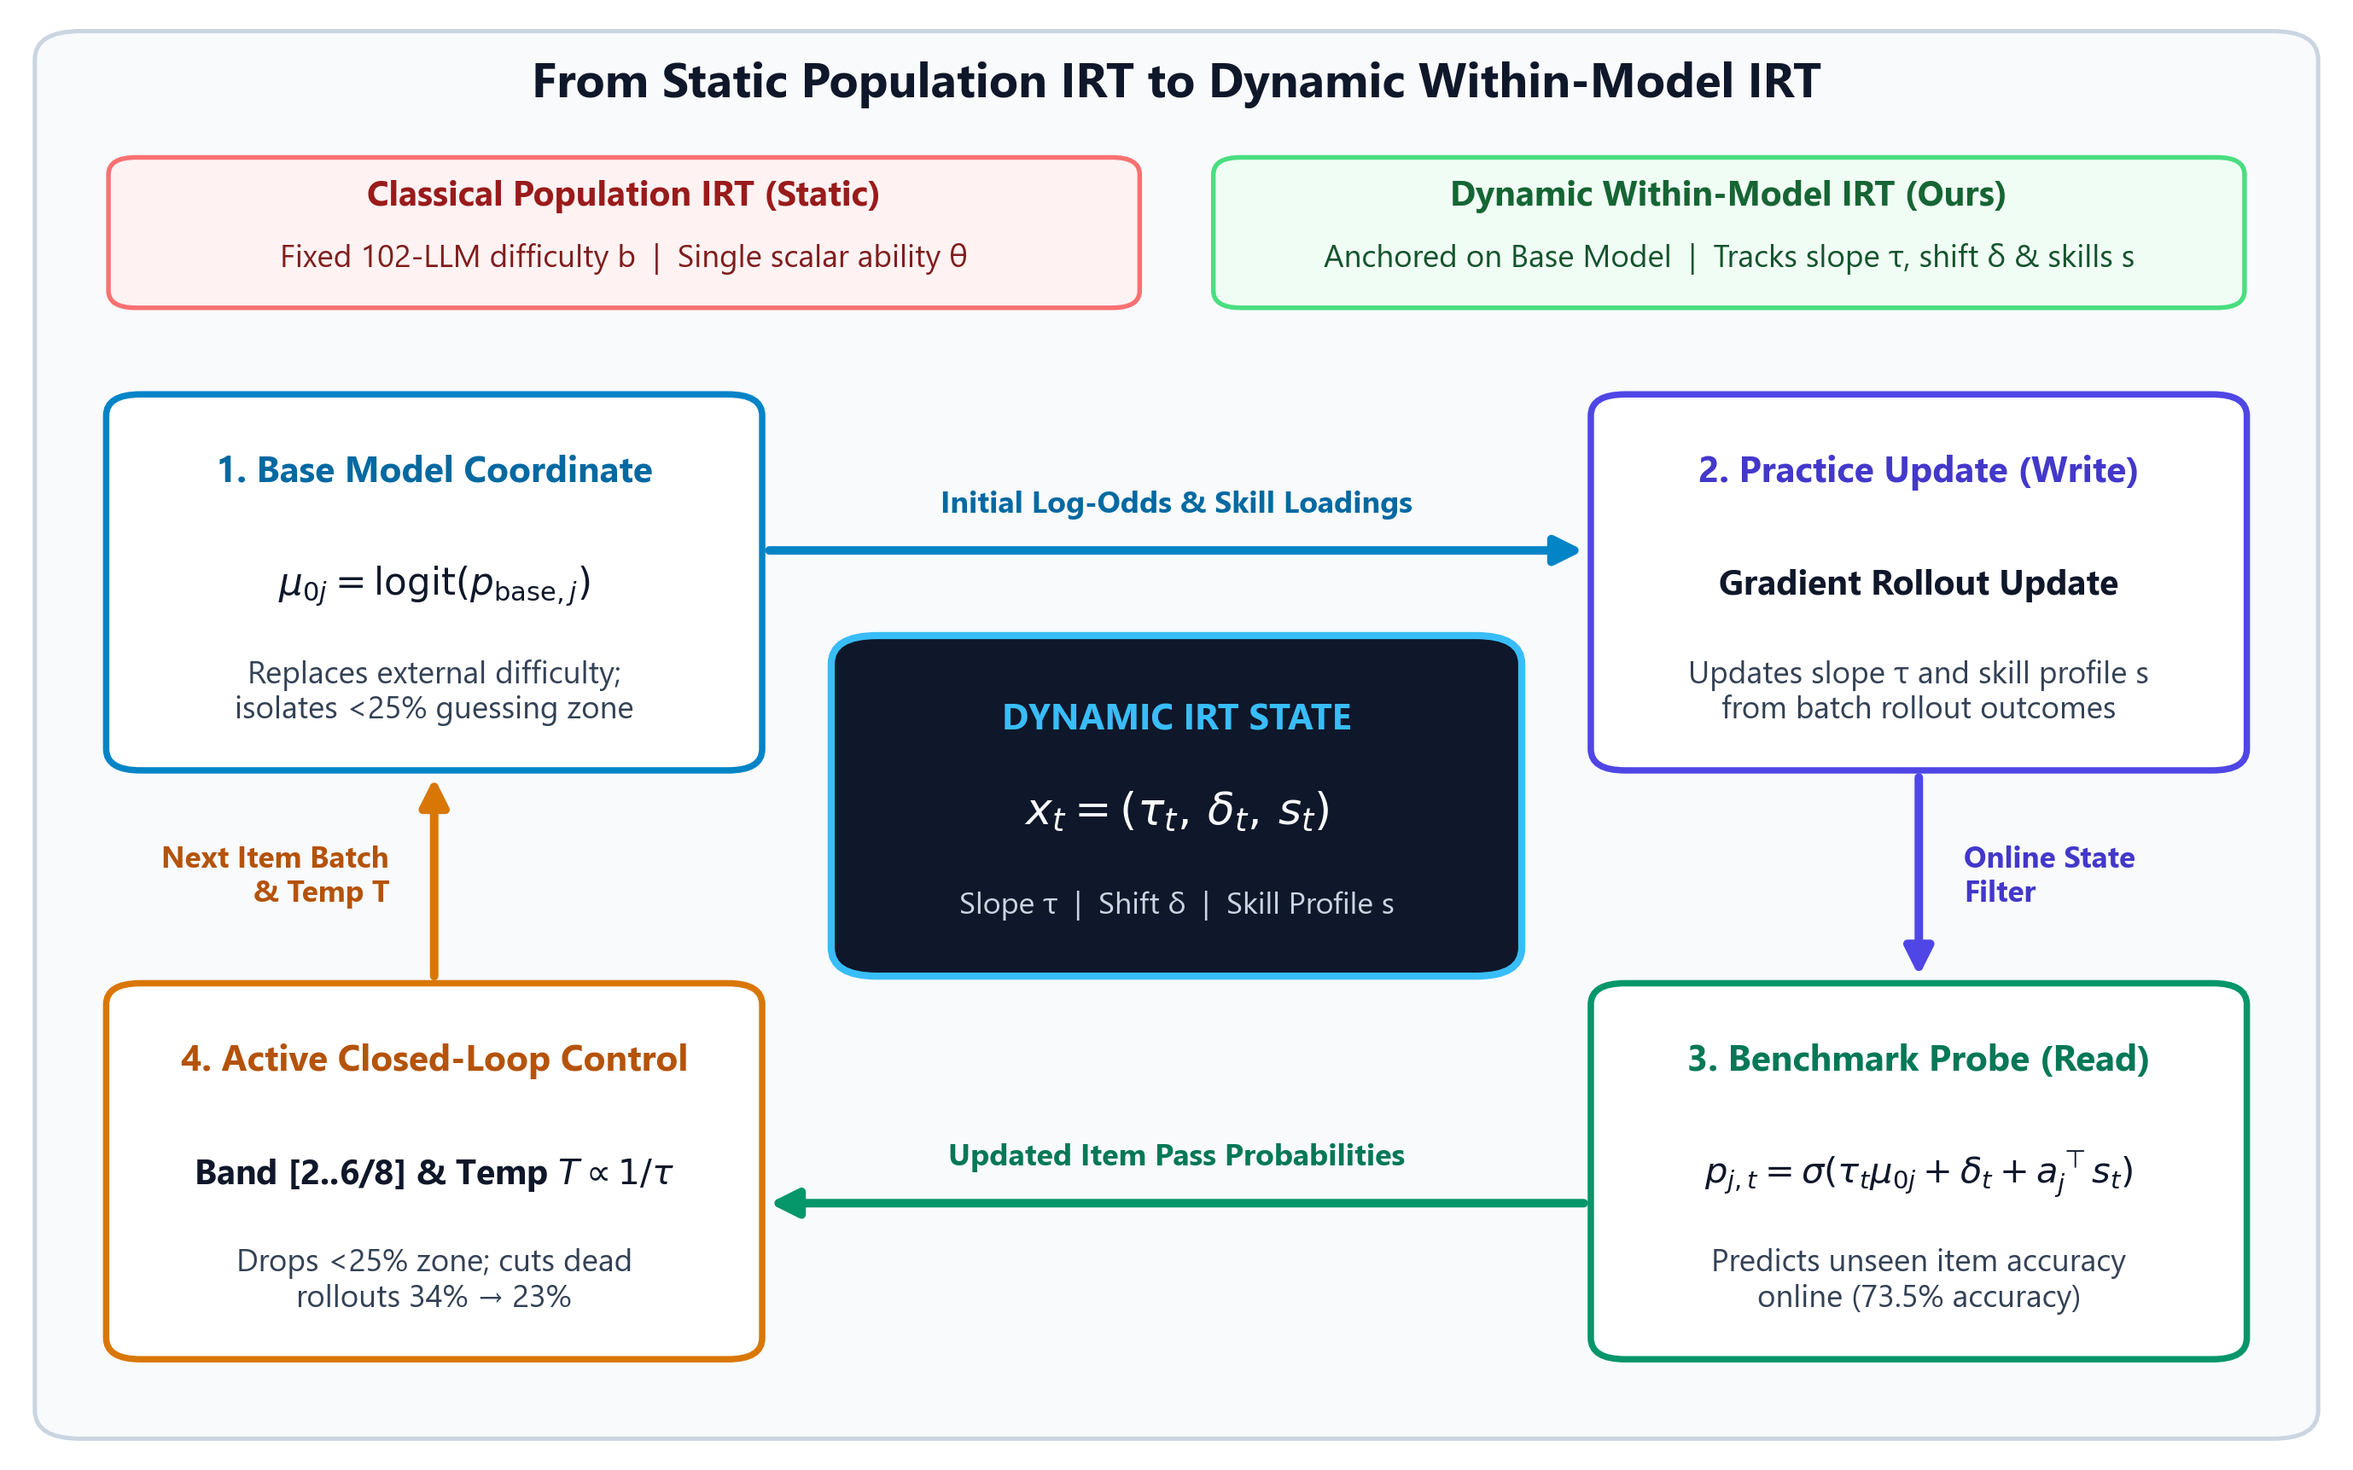
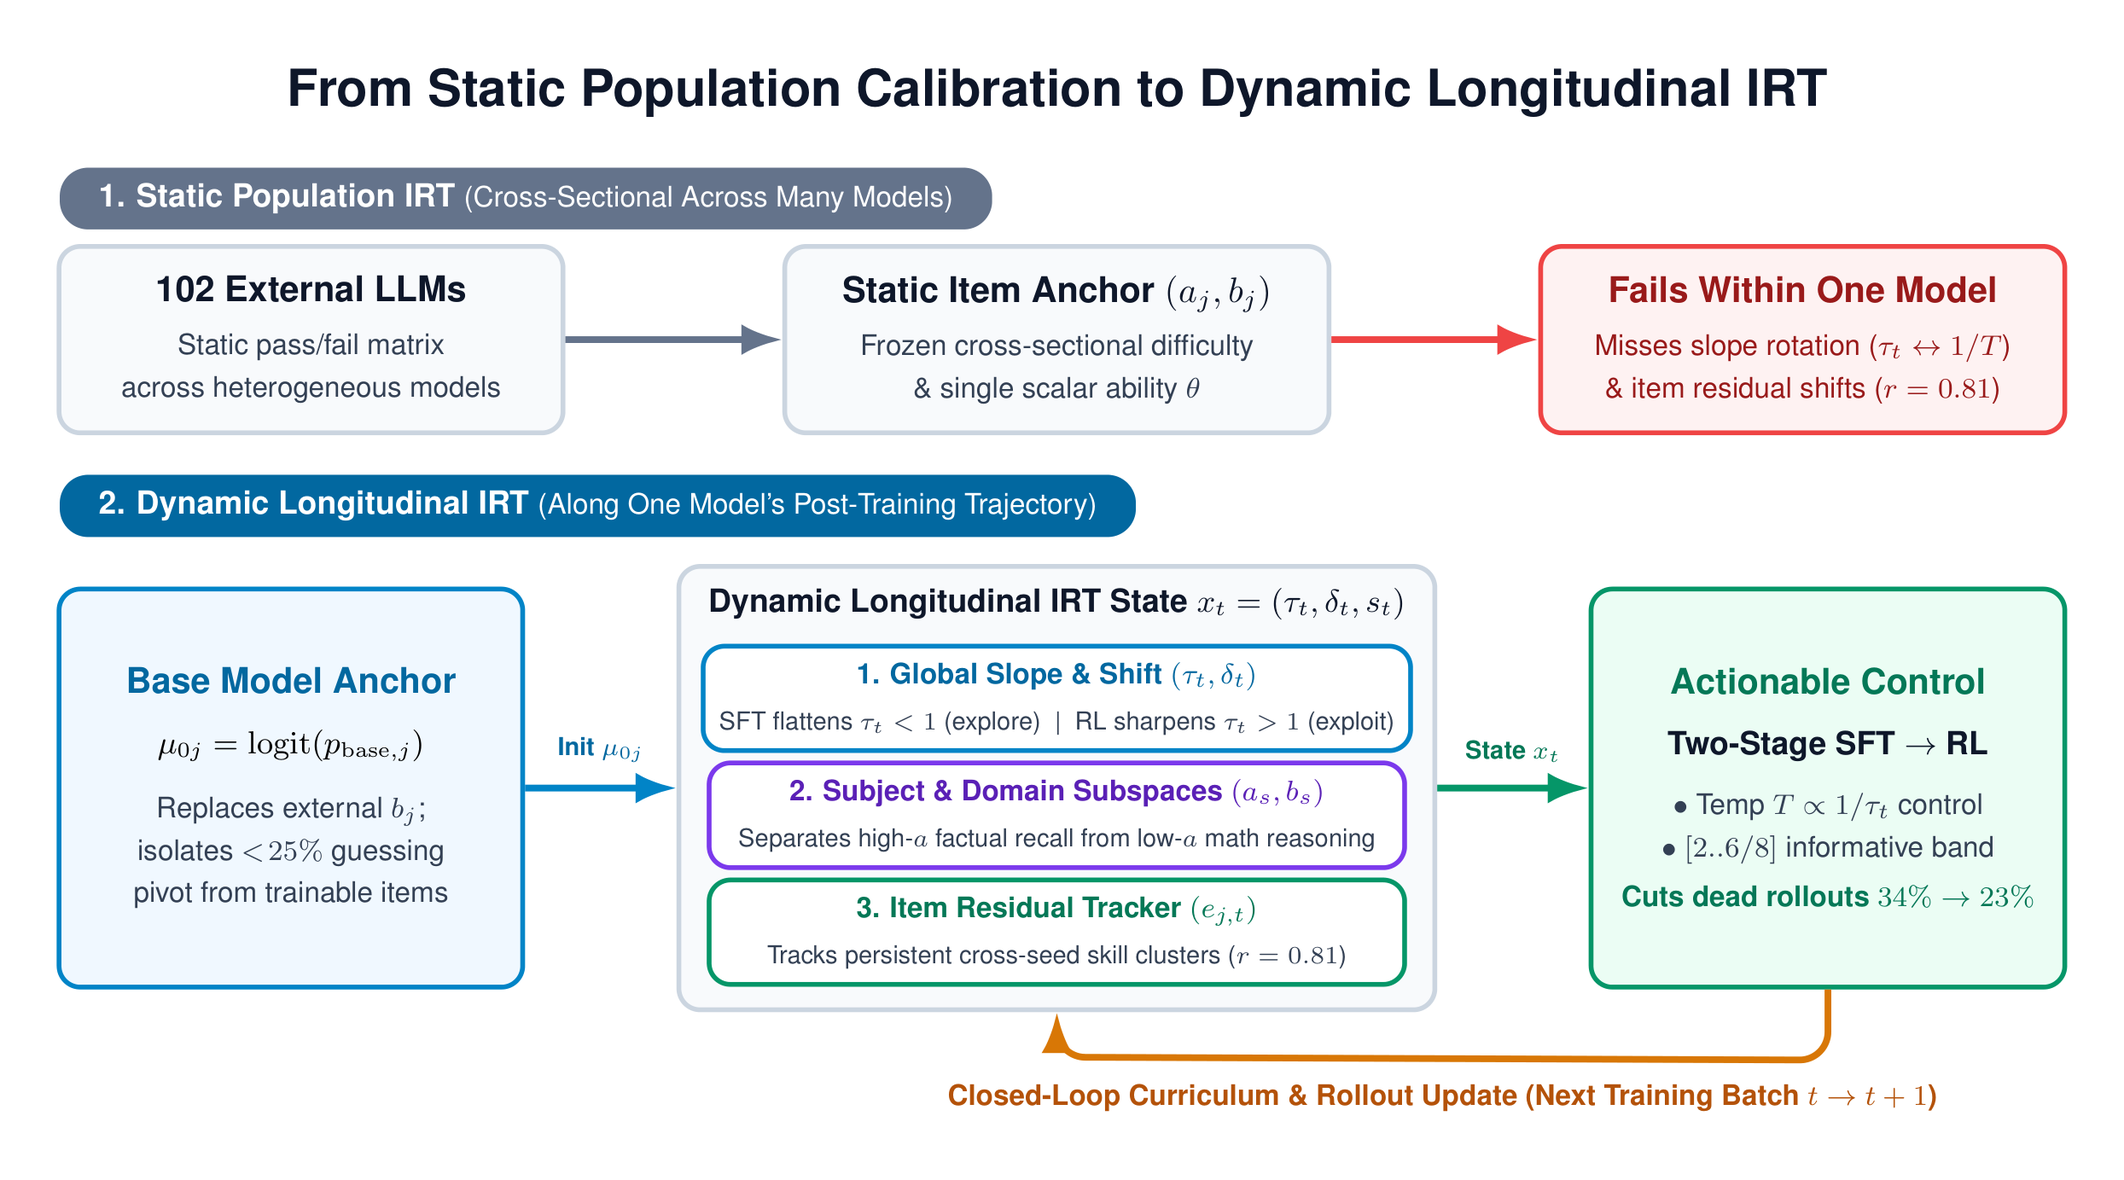
Add Base->CoT-SFT trajectory arrow in Fig06 and replace Fig07 with compiled LaTeX TikZ + Nano Banana diagrams

Changed region(s): [[0.0, 0.0311, 0.99, 0.9949]]

diff --git a/gemini/make_oct26_v4_figures.py b/gemini/make_oct26_v4_figures.py
@@ -649,7 +649,7 @@ def make_v4_fig06_actionable_control_payoff():
     base_x = m1_p.loc["t9_base", "mean_at_16"]
     base_y = m1_p.loc["t9_base", "pass_at_16"]
     ax1.scatter([base_x], [base_y], s=130, color="#475569", marker="o", edgecolors="#0F172A", linewidth=1.6, zorder=6, label="Base Model (38.2%, 93.0%)")
-    ax1.text(base_x - 0.3, base_y + 1.3, "Base (38.2%, 93.0%)", fontsize=8.6, fontweight="bold", color="#334155")
+    ax1.text(base_x - 0.2, base_y + 1.6, "Base (38.2%, 93.0%)", ha="left", fontsize=8.6, fontweight="bold", color="#334155")
 
     # 2. Standalone RL (u333)
     grpo_states = ["q1_grpo_0", "q1_grpo_1", "q1_grpo_2"]
@@ -673,13 +673,20 @@ def make_v4_fig06_actionable_control_payoff():
     )
     ax1.add_patch(arrow_grpo)
 
-    # 3. CoT-SFT Base
+    # 3. CoT-SFT Base (Stage 1 from Base)
     sft_states = ["t9_sft_0_70", "t9_sft_1_70", "t9_sft_2_70"]
     sft_xs = m1_p.loc[sft_states, "mean_at_16"].to_numpy()
     sft_ys = m1_p.loc[sft_states, "pass_at_16"].to_numpy()
     sft_cx, sft_cy = np.mean(sft_xs), np.mean(sft_ys)
     ax1.scatter([sft_cx], [sft_cy], s=130, color="#0284C7", marker="o", edgecolors="#0369A1", linewidth=1.6, zorder=6, label="CoT-SFT (T=0.7) (43.9%, 96.6%)")
-    ax1.text(sft_cx - 0.3, sft_cy + 1.3, "CoT-SFT (43.9%, 96.6%)", ha="right", fontsize=8.6, fontweight="bold", color="#0369A1")
+    ax1.text(sft_cx - 0.35, sft_cy + 1.5, "CoT-SFT (43.9%, 96.6%)", ha="right", fontsize=8.6, fontweight="bold", color="#0369A1")
+
+    arrow_base_sft = FancyArrowPatch(
+        (base_x, base_y), (sft_cx, sft_cy),
+        connectionstyle="arc3,rad=0.06", color="#0284C7",
+        arrowstyle="-|>", mutation_scale=17, linewidth=2.4, zorder=5
+    )
+    ax1.add_patch(arrow_base_sft)
 
     # 4. Zero-Training SFT T=0.2
     t02_states = ["m1a_sft_t02_0", "m1a_sft_t02_1", "m1a_sft_t02_2"]
@@ -798,81 +805,34 @@ def make_v4_fig06_actionable_control_payoff():
 
 
 # ==============================================================================
-# FIGURE 7: Standalone 1x1 — Minimalist Closed-Loop Dynamic IRT Schematic
+# FIGURE 7: Standalone 1x1 — Compiled LaTeX TikZ Closed-Loop Dynamic IRT Diagram
 # ==============================================================================
 def make_v4_fig07_dynamic_irt_schematic():
-    fig, ax = plt.subplots(figsize=(11.6, 7.2))
-    ax.axis("off")
-    ax.set_xlim(0, 100)
-    ax.set_ylim(0, 100)
+    import subprocess
+    import fitz
 
-    canvas = FancyBboxPatch((1.0, 1.0), 98.0, 98.0, boxstyle="round,pad=0.6,rounding_size=2.0", facecolor="#F8FAFC", edgecolor="#CBD5E1", linewidth=1.2, zorder=1)
-    ax.add_patch(canvas)
+    tex_path = os.path.join(OUT_DIR, "v4_Fig07_dynamic_irt_tikz.tex")
+    pdf_path = os.path.join(OUT_DIR, "v4_Fig07_dynamic_irt_tikz.pdf")
+    pdflatex_bin = r"C:\Users\steph\AppData\Local\Programs\MiKTeX\miktex\bin\x64\pdflatex.exe"
 
-    # Title with generous clearance above top banners
-    ax.text(50.0, 95.8, "From Static Population IRT to Dynamic Within-Model IRT", ha="center", va="center", fontsize=13.5, fontweight="bold", color="#0F172A", zorder=3)
+    if os.path.exists(tex_path) and os.path.exists(pdflatex_bin):
+        subprocess.run(
+            [pdflatex_bin, "-interaction=nonstopmode", "v4_Fig07_dynamic_irt_tikz.tex"],
+            cwd=OUT_DIR,
+            stdout=subprocess.DEVNULL,
+            stderr=subprocess.DEVNULL,
+            check=True,
+        )
+        doc = fitz.open(pdf_path)
+        pix = doc[0].get_pixmap(dpi=300)
+        for fname in ["v4_Fig07_dynamic_irt_tikz.png", "v4_Fig07_dynamic_irt_schematic.png"]:
+            out_file = os.path.join(OUT_DIR, fname)
+            pix.save(out_file)
+            if os.path.exists(BRAIN_DIR):
+                shutil.copy2(out_file, os.path.join(BRAIN_DIR, fname))
+        doc.close()
+        print("[OK] Compiled LaTeX TikZ: v4_Fig07_dynamic_irt_tikz.png & v4_Fig07_dynamic_irt_schematic.png")
 
-    # Top Comparative Banners (y = 80.5 to 90.5)
-    card_static = FancyBboxPatch((4.0, 80.5), 44.0, 9.8, boxstyle="round,pad=0.4,rounding_size=1.2", facecolor="#FEF2F2", edgecolor="#F87171", linewidth=1.3, zorder=2)
-    ax.add_patch(card_static)
-    ax.text(26.0, 87.3, "Classical Population IRT (Static)", ha="center", fontsize=9.8, fontweight="bold", color="#991B1B", zorder=3)
-    ax.text(26.0, 83.0, "Fixed 102-LLM difficulty b  |  Single scalar ability θ", ha="center", fontsize=8.8, color="#7F1D1D", zorder=3)
-
-    card_dynamic = FancyBboxPatch((52.0, 80.5), 44.0, 9.8, boxstyle="round,pad=0.4,rounding_size=1.2", facecolor="#F0FDF4", edgecolor="#4ADE80", linewidth=1.3, zorder=2)
-    ax.add_patch(card_dynamic)
-    ax.text(74.0, 87.3, "Dynamic Within-Model IRT (Ours)", ha="center", fontsize=9.8, fontweight="bold", color="#166534", zorder=3)
-    ax.text(74.0, 83.0, "Anchored on Base Model  |  Tracks slope τ, shift δ & skills s", ha="center", fontsize=8.8, color="#14532D", zorder=3)
-
-    # Central State Hub
-    hub = FancyBboxPatch((35.5, 33.5), 29.0, 23.0, boxstyle="round,pad=0.5,rounding_size=2.0", facecolor="#0F172A", edgecolor="#38BDF8", linewidth=2.0, zorder=5)
-    ax.add_patch(hub)
-    ax.text(50.0, 51.0, "DYNAMIC IRT STATE", ha="center", va="center", fontsize=10.2, fontweight="bold", color="#38BDF8", zorder=6)
-    ax.text(50.0, 44.5, r"$x_t = (\tau_t, \, \delta_t, \, s_t)$", ha="center", va="center", fontsize=12.5, fontweight="bold", color="#F8FAFC", zorder=6)
-    ax.text(50.0, 38.0, "Slope τ  |  Shift δ  |  Skill Profile s", ha="center", va="center", fontsize=8.6, color="#CBD5E1", zorder=6)
-
-    # 4 Minimalist Outer Nodes (Big, Readable Slide Text — Max 2 Short Lines Each)
-    # 1. Top-Left
-    n1 = FancyBboxPatch((4.0, 48.0), 27.5, 25.5, boxstyle="round,pad=0.5,rounding_size=1.5", facecolor="#FFFFFF", edgecolor="#0284C7", linewidth=1.8, zorder=3)
-    ax.add_patch(n1)
-    ax.text(17.75, 68.5, "1. Base Model Coordinate", ha="center", va="center", fontsize=10.2, fontweight="bold", color="#0369A1", zorder=4)
-    ax.text(17.75, 60.5, r"$\mu_{0j} = \mathrm{logit}(p_{\mathrm{base},j})$", ha="center", va="center", fontsize=10.5, fontweight="bold", color="#0F172A", zorder=4)
-    ax.text(17.75, 53.0, "Replaces external difficulty;\nisolates <25% guessing zone", ha="center", va="center", fontsize=8.8, color="#334155", zorder=4)
-
-    # 2. Top-Right
-    n2 = FancyBboxPatch((68.5, 48.0), 27.5, 25.5, boxstyle="round,pad=0.5,rounding_size=1.5", facecolor="#FFFFFF", edgecolor="#4F46E5", linewidth=1.8, zorder=3)
-    ax.add_patch(n2)
-    ax.text(82.25, 68.5, "2. Practice Update (Write)", ha="center", va="center", fontsize=10.2, fontweight="bold", color="#4338CA", zorder=4)
-    ax.text(82.25, 60.5, "Gradient Rollout Update", ha="center", va="center", fontsize=9.8, fontweight="bold", color="#0F172A", zorder=4)
-    ax.text(82.25, 53.0, "Updates slope τ and skill profile s\nfrom batch rollout outcomes", ha="center", va="center", fontsize=8.8, color="#334155", zorder=4)
-
-    # 3. Bottom-Right
-    n3 = FancyBboxPatch((68.5, 6.5), 27.5, 25.5, boxstyle="round,pad=0.5,rounding_size=1.5", facecolor="#FFFFFF", edgecolor="#059669", linewidth=1.8, zorder=3)
-    ax.add_patch(n3)
-    ax.text(82.25, 27.0, "3. Benchmark Probe (Read)", ha="center", va="center", fontsize=10.2, fontweight="bold", color="#047857", zorder=4)
-    ax.text(82.25, 19.0, r"$p_{j,t} = \sigma(\tau_t \mu_{0j} + \delta_t + a_j^\top s_t)$", ha="center", va="center", fontsize=10.0, fontweight="bold", color="#0F172A", zorder=4)
-    ax.text(82.25, 11.5, "Predicts unseen item accuracy\nonline (73.5% accuracy)", ha="center", va="center", fontsize=8.8, color="#334155", zorder=4)
-
-    # 4. Bottom-Left
-    n4 = FancyBboxPatch((4.0, 6.5), 27.5, 25.5, boxstyle="round,pad=0.5,rounding_size=1.5", facecolor="#FFFFFF", edgecolor="#D97706", linewidth=1.8, zorder=3)
-    ax.add_patch(n4)
-    ax.text(17.75, 27.0, "4. Active Closed-Loop Control", ha="center", va="center", fontsize=10.2, fontweight="bold", color="#B45309", zorder=4)
-    ax.text(17.75, 19.0, r"Band [2..6/8] & Temp $T \propto 1/\tau$", ha="center", va="center", fontsize=9.8, fontweight="bold", color="#0F172A", zorder=4)
-    ax.text(17.75, 11.5, "Drops <25% zone; cuts dead\nrollouts 34% → 23%", ha="center", va="center", fontsize=8.8, color="#334155", zorder=4)
-
-    # Arrows
-    ax.add_patch(FancyArrowPatch((32.0, 63.0), (68.0, 63.0), color="#0284C7", arrowstyle="-|>", mutation_scale=16, linewidth=2.4, zorder=7))
-    ax.text(50.0, 65.2, "Initial Log-Odds & Skill Loadings", ha="center", va="bottom", fontsize=8.6, fontweight="bold", color="#0369A1", zorder=8)
-
-    ax.add_patch(FancyArrowPatch((82.25, 47.5), (82.25, 32.5), color="#4F46E5", arrowstyle="-|>", mutation_scale=16, linewidth=2.4, zorder=7))
-    ax.text(84.2, 40.0, "Online State\nFilter", ha="left", va="center", fontsize=8.4, fontweight="bold", color="#4338CA", zorder=8)
-
-    ax.add_patch(FancyArrowPatch((68.0, 17.0), (32.0, 17.0), color="#059669", arrowstyle="-|>", mutation_scale=16, linewidth=2.4, zorder=7))
-    ax.text(50.0, 19.2, "Updated Item Pass Probabilities", ha="center", va="bottom", fontsize=8.6, fontweight="bold", color="#047857", zorder=8)
-
-    ax.add_patch(FancyArrowPatch((17.75, 32.5), (17.75, 47.5), color="#D97706", arrowstyle="-|>", mutation_scale=16, linewidth=2.4, zorder=7))
-    ax.text(15.8, 40.0, "Next Item Batch\n& Temp T", ha="right", va="center", fontsize=8.4, fontweight="bold", color="#B45309", zorder=8)
-
-    save_fig(fig, "v4_Fig07_dynamic_irt_schematic.png")
 
 
 if __name__ == "__main__":

diff --git a/gemini/figures_v4/v4_Fig07_dynamic_irt_tikz.tex b/gemini/figures_v4/v4_Fig07_dynamic_irt_tikz.tex
@@ -1,0 +1,154 @@
+\documentclass[border=16pt, tikz]{standalone}
+\usepackage[T1]{fontenc}
+\usepackage{helvet}
+\renewcommand{\familydefault}{\sfdefault}
+\usepackage{amsmath, amssymb}
+\usetikzlibrary{arrows.meta, positioning, calc, backgrounds, fit}
+
+% Color Palette (Matching V4 Figures)
+\definecolor{slateDark}{HTML}{0F172A}
+\definecolor{slateText}{HTML}{334155}
+\definecolor{slateMuted}{HTML}{64748B}
+\definecolor{slateBorder}{HTML}{CBD5E1}
+\definecolor{slateBg}{HTML}{F8FAFC}
+
+\definecolor{redDark}{HTML}{991B1B}
+\definecolor{redBorder}{HTML}{EF4444}
+\definecolor{redBg}{HTML}{FEF2F2}
+
+\definecolor{blueDark}{HTML}{0369A1}
+\definecolor{blueMain}{HTML}{0284C7}
+\definecolor{blueBg}{HTML}{F0F9FF}
+
+\definecolor{purpleDark}{HTML}{5B21B6}
+\definecolor{purpleMain}{HTML}{7C3AED}
+\definecolor{purpleBg}{HTML}{F5F3FF}
+
+\definecolor{greenDark}{HTML}{047857}
+\definecolor{greenMain}{HTML}{059669}
+\definecolor{greenBg}{HTML}{ECFDF5}
+
+\definecolor{amberDark}{HTML}{B45309}
+\definecolor{amberMain}{HTML}{D97706}
+\definecolor{amberBg}{HTML}{FFFBEB}
+
+\begin{document}
+\begin{tikzpicture}[
+    >=Latex,
+    font=\sffamily,
+    box/.style={
+        rectangle,
+        rounded corners=6pt,
+        draw=#1,
+        line width=1.35pt,
+        fill=white,
+        align=center,
+        inner sep=8pt
+    },
+    pill/.style={
+        rectangle,
+        rounded corners=8pt,
+        fill=#1,
+        text=white,
+        font=\sffamily\bfseries\small,
+        inner xsep=11pt,
+        inner ysep=4.5pt
+    },
+    arrow/.style={
+        ->,
+        line width=1.9pt,
+        color=#1
+    }
+]
+
+% ============================================================================
+% TITLE
+% ============================================================================
+\node[font=\sffamily\bfseries\Large, text=slateDark] (title) at (0, 7.25)
+    {From Static Population Calibration to Dynamic Longitudinal IRT};
+
+% ============================================================================
+% ROW 1: STATIC POPULATION IRT (TOP)
+% ============================================================================
+\node[pill=slateMuted, anchor=west] (p1) at (-9.9, 6.2)
+    {1. Static Population IRT \normalfont\footnotesize (Cross-Sectional Across Many Models)};
+
+\node[box=slateBorder, fill=slateBg, minimum width=5.0cm, minimum height=1.85cm] (s1) at (-7.4, 4.8) {
+    \textbf{\color{slateDark} 102 External LLMs}\\[3pt]
+    {\footnotesize\color{slateText} Static pass/fail matrix}\\
+    {\footnotesize\color{slateText} across heterogeneous models}
+};
+
+\node[box=slateBorder, fill=slateBg, minimum width=5.4cm, minimum height=1.85cm] (s2) at (0.0, 4.8) {
+    \textbf{\color{slateDark} Static Item Anchor $(a_j, b_j)$}\\[3pt]
+    {\footnotesize\color{slateText} Frozen cross-sectional difficulty}\\
+    {\footnotesize\color{slateText} \& single scalar ability $\theta$}
+};
+
+\node[box=redBorder, fill=redBg, minimum width=5.2cm, minimum height=1.85cm] (s3) at (7.4, 4.8) {
+    \textbf{\color{redDark} Fails Within One Model}\\[3pt]
+    {\footnotesize\color{redDark} Misses slope rotation ($\tau_t \leftrightarrow 1/T$)}\\
+    {\footnotesize\color{redDark} \& item residual shifts ($r = 0.81$)}
+};
+
+\draw[arrow=slateMuted] (s1.east) -- (s2.west);
+\draw[arrow=redBorder]  (s2.east) -- (s3.west);
+
+% ============================================================================
+% ROW 2: DYNAMIC LONGITUDINAL IRT (BOTTOM CLOSED LOOP)
+% ============================================================================
+\node[pill=blueDark, anchor=west] (p2) at (-9.9, 3.15)
+    {2. Dynamic Longitudinal IRT \normalfont\footnotesize (Along One Model's Post-Training Trajectory)};
+
+% Left Node: Base Coordinate Anchor
+\node[box=blueMain, fill=blueBg, minimum width=4.6cm, minimum height=3.95cm] (d1) at (-7.6, 0.35) {
+    \textbf{\color{blueDark} Base Model Anchor}\\[5pt]
+    {\small $\mu_{0j} = \mathrm{logit}(p_{\mathrm{base},j})$}\\[6pt]
+    {\footnotesize\color{slateText} Replaces external $b_j$;}\\
+    {\footnotesize\color{slateText} isolates $<\!25\%$ guessing}\\
+    {\footnotesize\color{slateText} pivot from trainable items}
+};
+
+% Center Engine Box (3 Stacked Layers)
+\node[box=slateBorder, fill=slateBg, minimum width=7.5cm, minimum height=4.4cm] (engine_bg) at (0.0, 0.35) {};
+\node[font=\sffamily\bfseries\small, text=slateDark] at (0.0, 2.18)
+    {Dynamic Longitudinal IRT State $x_t = (\tau_t, \delta_t, s_t)$};
+
+\node[box=blueMain, fill=white, minimum width=6.9cm, minimum height=0.95cm, inner sep=4.5pt] (e1) at (0.0, 1.24) {
+    \textbf{\footnotesize\color{blueDark} 1. Global Slope \& Shift $(\tau_t, \delta_t)$}\\[1pt]
+    {\scriptsize\color{slateText} SFT flattens $\tau_t < 1$ (explore) \;\textbar\; RL sharpens $\tau_t > 1$ (exploit)}
+};
+
+\node[box=purpleMain, fill=white, minimum width=6.9cm, minimum height=0.95cm, inner sep=4.5pt] (e2) at (0.0, 0.08) {
+    \textbf{\footnotesize\color{purpleDark} 2. Subject \& Domain Subspaces $(a_s, b_s)$}\\[1pt]
+    {\scriptsize\color{slateText} Separates high-$a$ factual recall from low-$a$ math reasoning}
+};
+
+\node[box=greenMain, fill=white, minimum width=6.9cm, minimum height=0.95cm, inner sep=4.5pt] (e3) at (0.0, -1.08) {
+    \textbf{\footnotesize\color{greenDark} 3. Item Residual Tracker $(e_{j,t})$}\\[1pt]
+    {\scriptsize\color{slateText} Tracks persistent cross-seed skill clusters ($r = 0.81$)}
+};
+
+% Right Node: Actionable Training Control
+\node[box=greenMain, fill=greenBg, minimum width=4.7cm, minimum height=3.95cm] (d3) at (7.65, 0.35) {
+    \textbf{\color{greenDark} Actionable Control}\\[5pt]
+    {\small\color{slateDark} \textbf{Two-Stage SFT $\rightarrow$ RL}}\\[5pt]
+    {\footnotesize\color{slateText} $\bullet$ Temp $T \propto 1/\tau_t$ control}\\
+    {\footnotesize\color{slateText} $\bullet$ $[2..6/8]$ informative band}\\[2pt]
+    {\footnotesize\color{greenDark} \textbf{Cuts dead rollouts $34\% \rightarrow 23\%$}}
+};
+
+% Forward Arrows
+\draw[arrow=blueMain] (d1.east) -- node[above=3pt, font=\sffamily\bfseries\scriptsize, text=blueDark] {Init $\mu_{0j}$} (engine_bg.west);
+\draw[arrow=greenMain] (engine_bg.east) -- node[above=3pt, font=\sffamily\bfseries\scriptsize, text=greenDark] {State $x_t$} (d3.west);
+
+% Bottom Closed-Loop Feedback Arrow
+\draw[arrow=amberMain, rounded corners=8pt]
+    (d3.south) -- ++(0, -0.70)
+    -- node[below=3pt, font=\sffamily\bfseries\footnotesize, text=amberDark]
+       {Closed-Loop Curriculum \& Rollout Update (Next Training Batch $t \rightarrow t+1$)}
+       (0.0, -2.32)
+    -| (engine_bg.south);
+
+\end{tikzpicture}
+\end{document}
